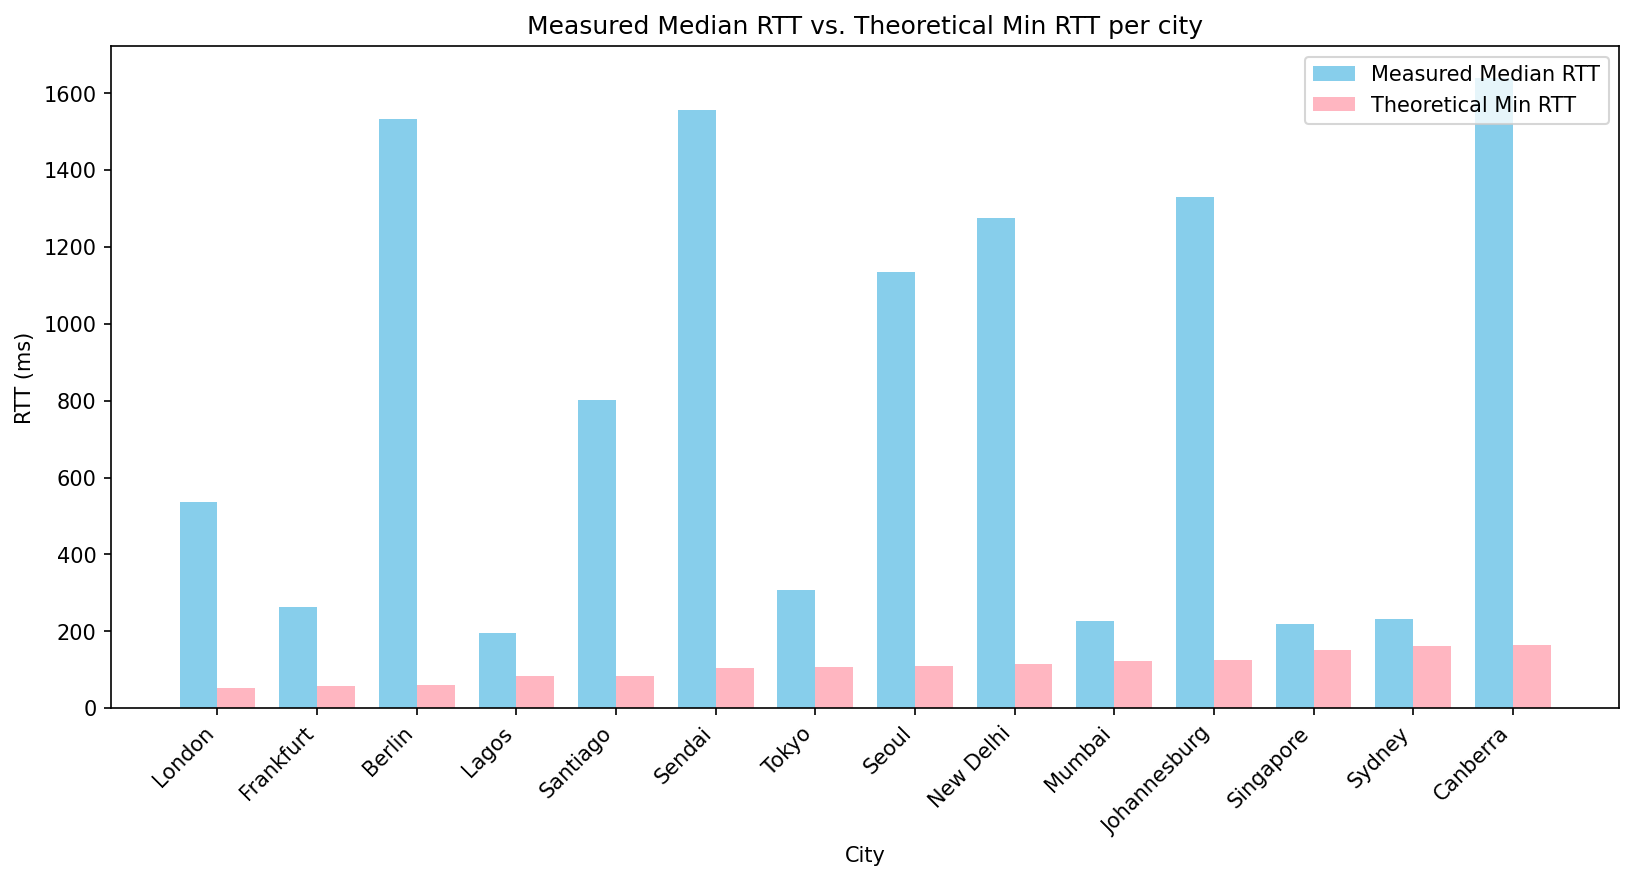
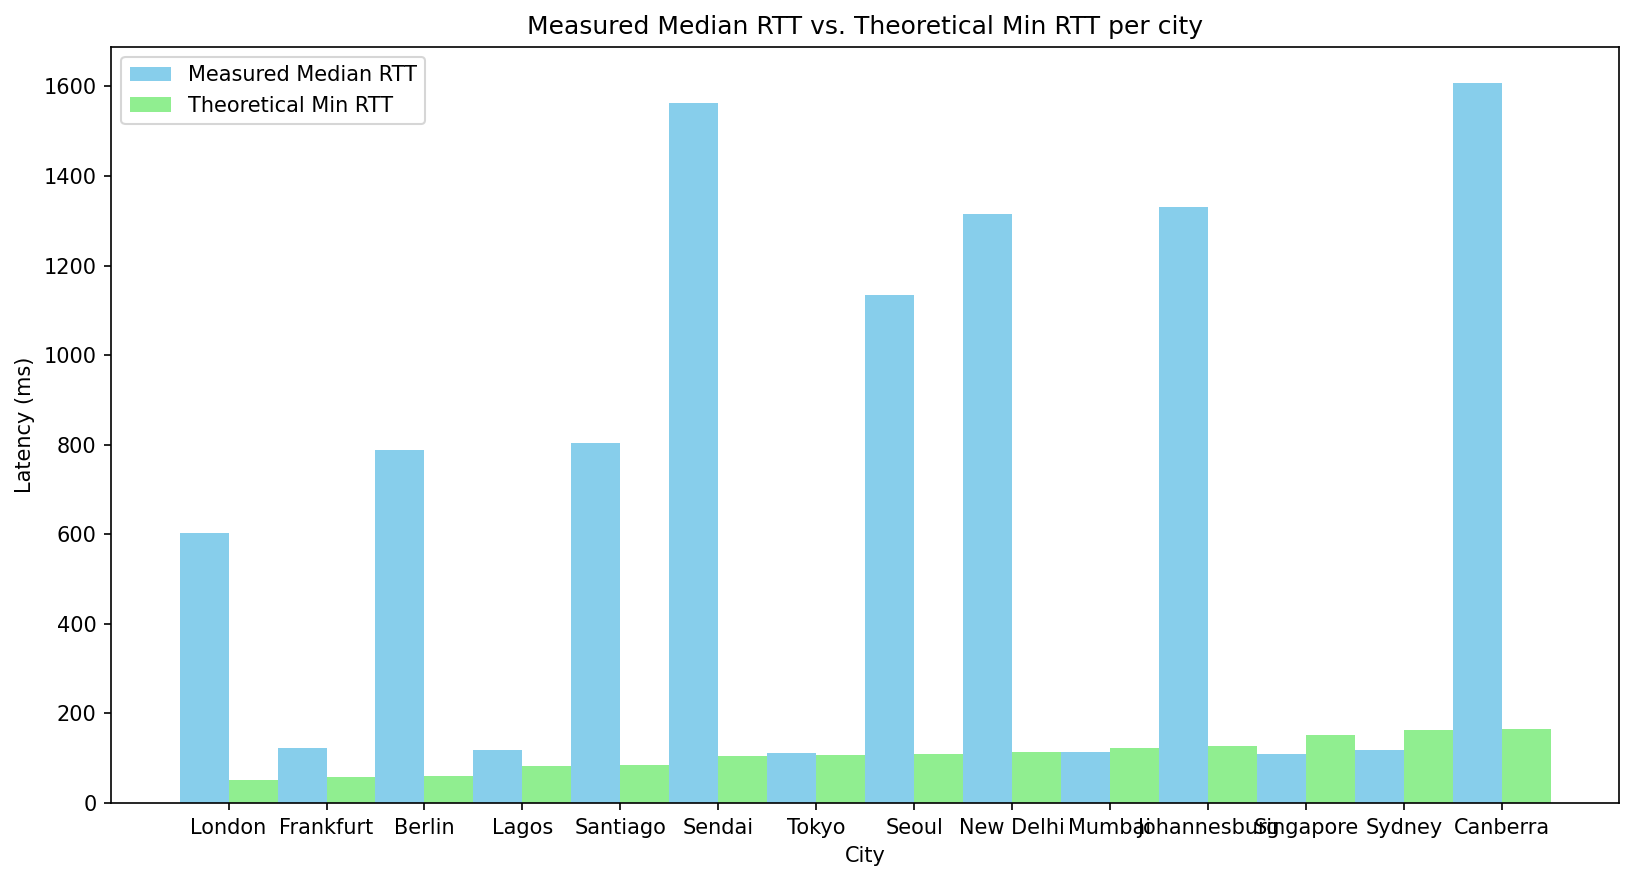
continued

diff --git a/rtt_speedoflight.py b/rtt_speedoflight.py
@@ -88,7 +88,6 @@ def measure_rtt(url: str, probes: int = PROBES) -> dict:
             samples.append(elapsed_ms)
         except Exception:
             lost += 1
-        
         time.sleep(0.2)
 
     if not samples:
@@ -121,7 +120,8 @@ def great_circle_km(lat1: float, lon1: float, lat2: float, lon2: float) -> float
     TODO: implement from scratch. Use math.radians() to convert degrees.
     Do NOT use geopy or any distance library.
     """
-    
+
+    # TODO
     dlat1 = math.radians(lat1)
     dlat2 = math.radians(lat2)
     delta_dlat = dlat2 - dlat1
@@ -134,7 +134,6 @@ def great_circle_km(lat1: float, lon1: float, lat2: float, lon2: float) -> float
     c = 2 * math.atan2(math.sqrt(a), math.sqrt(1-a))
     R = 6371
     
-    # TODO
     return R * c
 
 
@@ -217,18 +216,17 @@ def make_plots(results: dict):
     valid  = {c: d for c, d in results.items() if d.get("median_ms") is not None}
     cities = sorted(valid, key=lambda c: valid[c]["distance_km"])
 
-    dist = [valid[c]["distance_km"] for c in cities]
     median_RTT = [valid[c]["median_ms"] for c in cities]
     theoretical_min_RTT = [valid[c]["theoretical_min_ms"] for c in cities]
     
     # ── Figure 1 ──────────────────────────────
     fig, ax = plt.subplots(figsize=(11, 6))
     # TODO
-    x = np.arrange(len(cities))
-    width = 0.5
+    x = np.arange(len(cities))
+    width = 0.38
     
     ax.bar(x - width / 2, median_RTT, width, label = 'Measured Median RTT', color = 'skyblue')
-    ax.bar(x + width / 2, theoretical_min_RTT, width, label = 'Theoretical Min RTT', color ="lightpink")
+    ax.bar(x + width / 2, theoretical_min_RTT, width, label = 'Theoretical Min RTT', color ="red")
 
     ax.set_title('Measured Median RTT vs. Theoretical Min RTT per city')
     ax.set_ylabel('Latency (ms)')
@@ -254,24 +252,20 @@ def make_plots(results: dict):
     fig, ax = plt.subplots(figsize=(10, 7))
     # TODO
     for city in cities:
-        d = valid[city]
-        color = CONTINENT_COLORS.get(d["continent"], "gray")
-        ax.scatter(d["distance_km"], d["median_ms"], color = color, s = 80)
-        ax.annotate(city, (d["distance+km"], d["median_ms"]), textcoords = "offset points", xytext = ())
+        ax.scatter(valid[city]["distance_km"], valid[city]["median_ms"], color = CONTINENT_COLORS.get(valid[city]["continent"], "gray"), s = 100)
+        ax.annotate(city, (valid[city]["distance_km"], valid[city]["median_ms"]), textcoords = "offset points", xytext = (5,5))
     
-    sorted_pairs = sorted(
-        [(valid[c]["distance_km"], valid[c]["theoretical_min_ms"]) for c in cities], key = lambda t: t[0]
-    )
-    xline = [p[0] for p in sorted_pairs]
-    yline = [p[0] for p in sorted_pairs]
+    sorted_pairs = sorted([(valid[c]["distance_km"], valid[c]["theoretical_min_ms"]) for c in cities], key = lambda t: t[0])
+    x = [p[0] for p in sorted_pairs]
+    y = [p[0] for p in sorted_pairs]
 
-    ax.plot(xline, yline, linestyle = "--", color = "black", label = "Theoretical Min")
+    ax.plot(x, y, linestyle = "--", color = "black", label = "Theoretical Min")
 
-    ax.set_xlabel('Distance_km')
-    ax.set_ylabel('Measured Median RTT')
-    ax.set_title('Distance vs. Measureed Median RTT')
+    ax.set_xlabel('Distance (km)')
+    ax.set_ylabel('Measured Median RTT (ms)')
+    ax.set_title('Distance vs. Measured Median RTT')
 
-    legend_handles: list[Artist] = [mpatches.Patch(color = color, label = continent) for continent, color in CONTINENT_COLORS.items]
+    legend_handles: list[Artist] = [mpatches.Patch(color = color, label = continent) for continent, color in CONTINENT_COLORS.items()]
     legend_handles.append(Line2D([0], [0], color = "black", linestyle = "--", label = "Theoretical Min"))
     ax.legend(handles = legend_handles, loc = "upper left")
                                         
